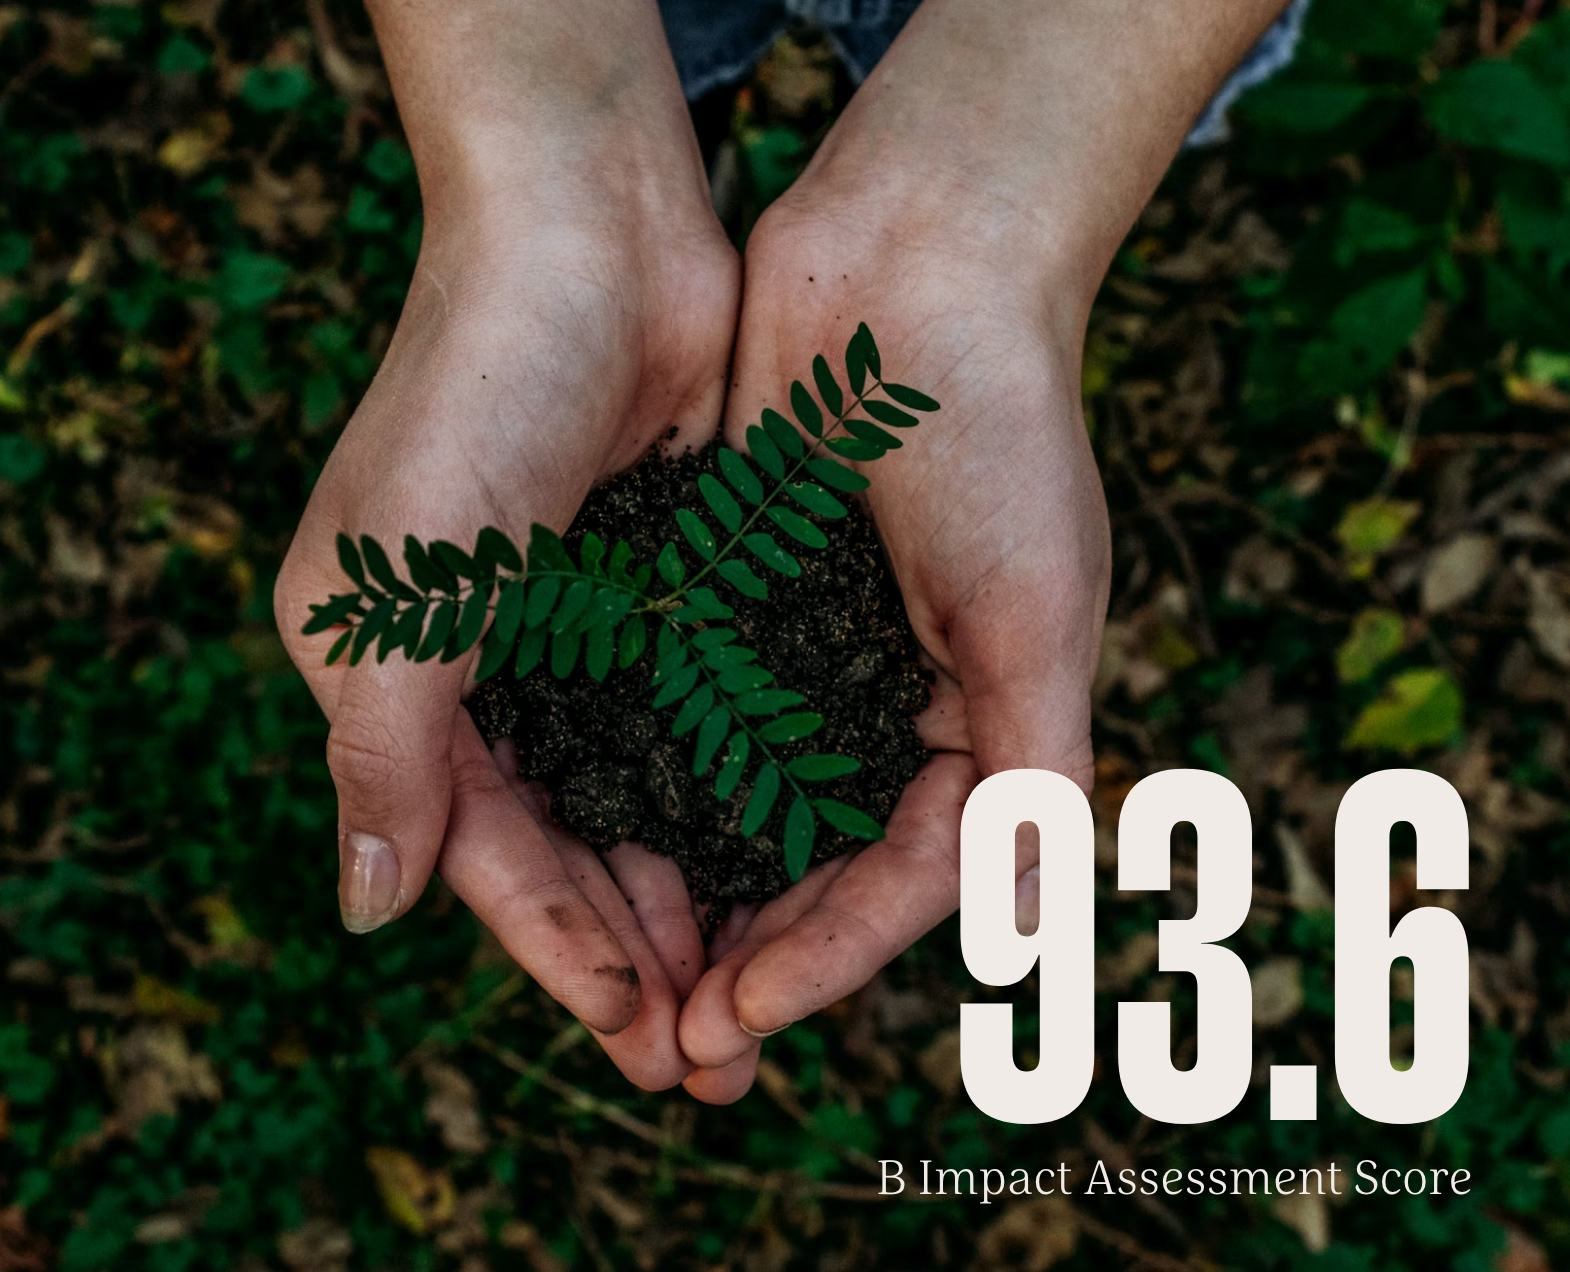
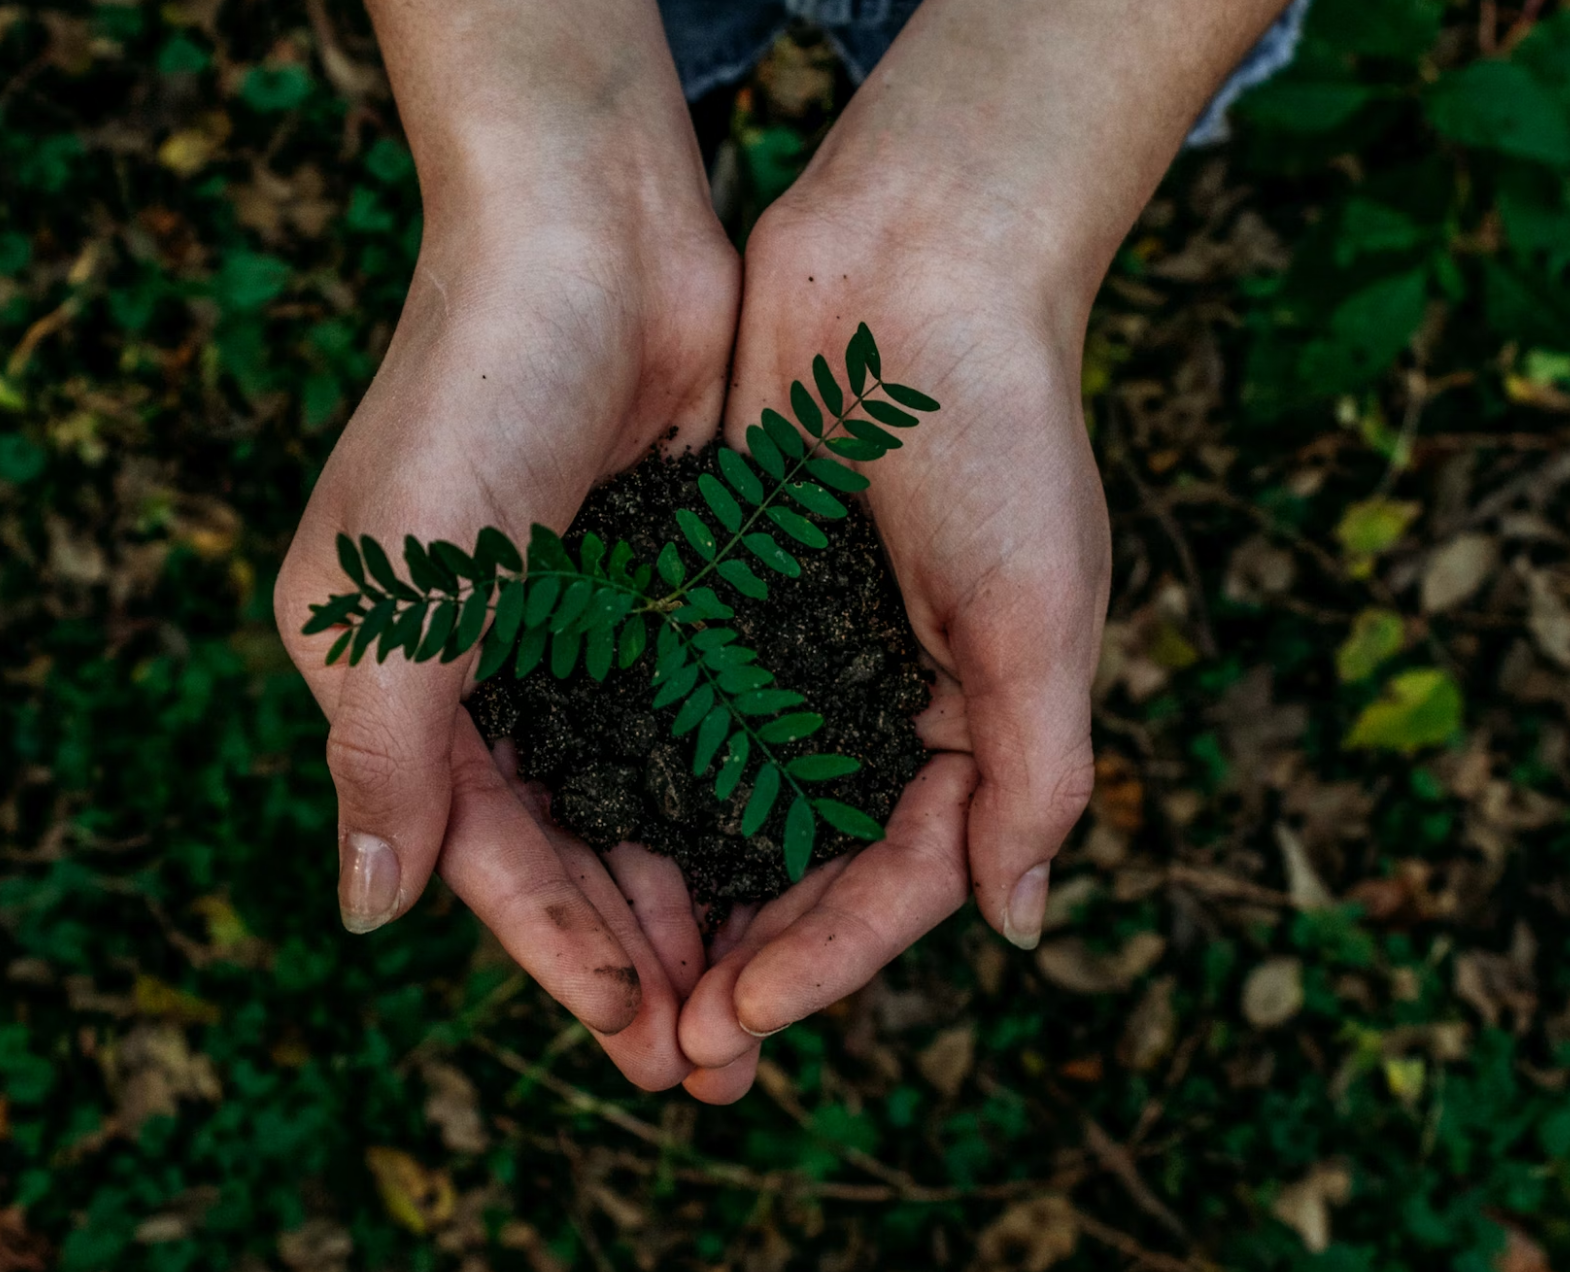
Stats on impact page as text

Changed region(s): [[0.593, 0.5825, 0.9363, 0.8892], [0.5618, 0.9198, 0.9363, 0.9505]]

diff --git a/layouts/about/impact.html b/layouts/about/impact.html
@@ -5,11 +5,19 @@
 			<div class="first:mt-10">
 {{/* 
         <section class="grid gap-10 md:grid-cols-2 section--lg">
+          <div class="relative">
           {{ partial "image" (dict 
             "alt" "Mat and Michelle, standing by the bureaux and smiling."
             "class" "md:order-1"
-            "src" "/images/mat-and-michelle.jpg" 
+            "src" "/images/stat-image-bcorp.png" 
           ) }}
+            <div class="absolute z-10 text-buff bottom-10 left-10">
+              <article>
+                <h4 class="h1 text-3xl">&pound;23k</h4>
+                <p class="mt-5">Donated value since 2014</p>
+              </article>
+            </div>
+          </div>
           <div>
             <h2 class="mb-5 text-xl">We’re climate positive</h2>
             <p>Being certified as Climate Positive means an organisation has gone beyond achieving “Net Zero” and instead creates an environmental benefit by removing additional greenhouse gases from the atmosphere, not just those that it emits.</p>
@@ -22,7 +30,7 @@
                   </svg>
                 </div>
                 <p>Read more
-                <span class="sr-only">about We're climate positive</span>
+                <span class="sr-only">about how we're climate positive</span>
                 </p>
               </div>
             </button>
@@ -33,12 +41,18 @@
         </section> 
 */}}
         <section class="grid gap-10 lg:gap-20 md:grid-cols-2 section--lg">
-          <div class="md:order-1">
+          <div class="md:order-1 relative">
             {{ partial "image" (dict 
-              "alt" "Stat overlaying image of a plant growing in a pair of hands. The stat reads: 93.6 B Impact Assessment Score"
+              "alt" "A plant growing in a pair of hands"
               "class" ""
               "src" "/images/stat-image-b-corp.png" 
             ) }}
+            <div class="absolute z-10 text-buff bottom-10 right-10">
+              <article>
+                <h4 class="h1 text-3xl">93.6</h4>
+                <p class="mt-5">B Impact Assessment Score</p>
+              </article>
+            </div>
           </div>
           <div>
             <div class="prose lede">
@@ -57,7 +71,7 @@
                 </p>
               </div>
             </button>
-            <div id="bcorp" class="mt-10 prose lede">
+            <div id="bcorp" class="mt-10 prose">
             <p>B Corporation certification legally requires us to:</p>
             <ul>
               <li>create a material positive impact on society and the environment through our business operation</li>
@@ -72,11 +86,19 @@
           </div>
         </section>
         <section class="grid gap-10 lg:gap-20 md:grid-cols-2 section--lg">
-          {{ partial "image" (dict 
-            "alt" "Stat overlaying image of a mostly submerged beaver. The stat reads: £23,000 donated value since 2014"
-            "class" "md:order-1"
-            "src" "/images/stat-image-donations.png" 
-          ) }}
+          <div class="relative">
+            {{ partial "image" (dict 
+              "alt" "A mostly submerged beaver."
+              "class" "md:order-1"
+              "src" "/images/stat-image-donations.png" 
+            ) }}
+            <div class="absolute z-10 text-buff bottom-10 left-10">
+              <article>
+                <h4 class="h1 text-3xl">&pound;23k</h4>
+                <p class="mt-5">Donated value since 2014</p>
+              </article>
+            </div>
+          </div>
           <div>
             <div class="prose lede">
               <h2 class="mb-5 text-xl">Our charity partnerships</h2>
@@ -96,7 +118,7 @@
               </div>
             </button>
             <div id="charity-partnerships" class="mt-10">
-              <div class="prose lede">
+              <div class="prose">
                 <p>We've also been members of the
                   <a href="https://sas.org.uk/take-action/partnerships/the-ocean-network/" target="_blank" rel="noreferrer noopener">Surfers Against Sewage Ocean Network</a>
                   since 2018, supporting their work to end sewage and plastic pollution in our oceans.</p>
